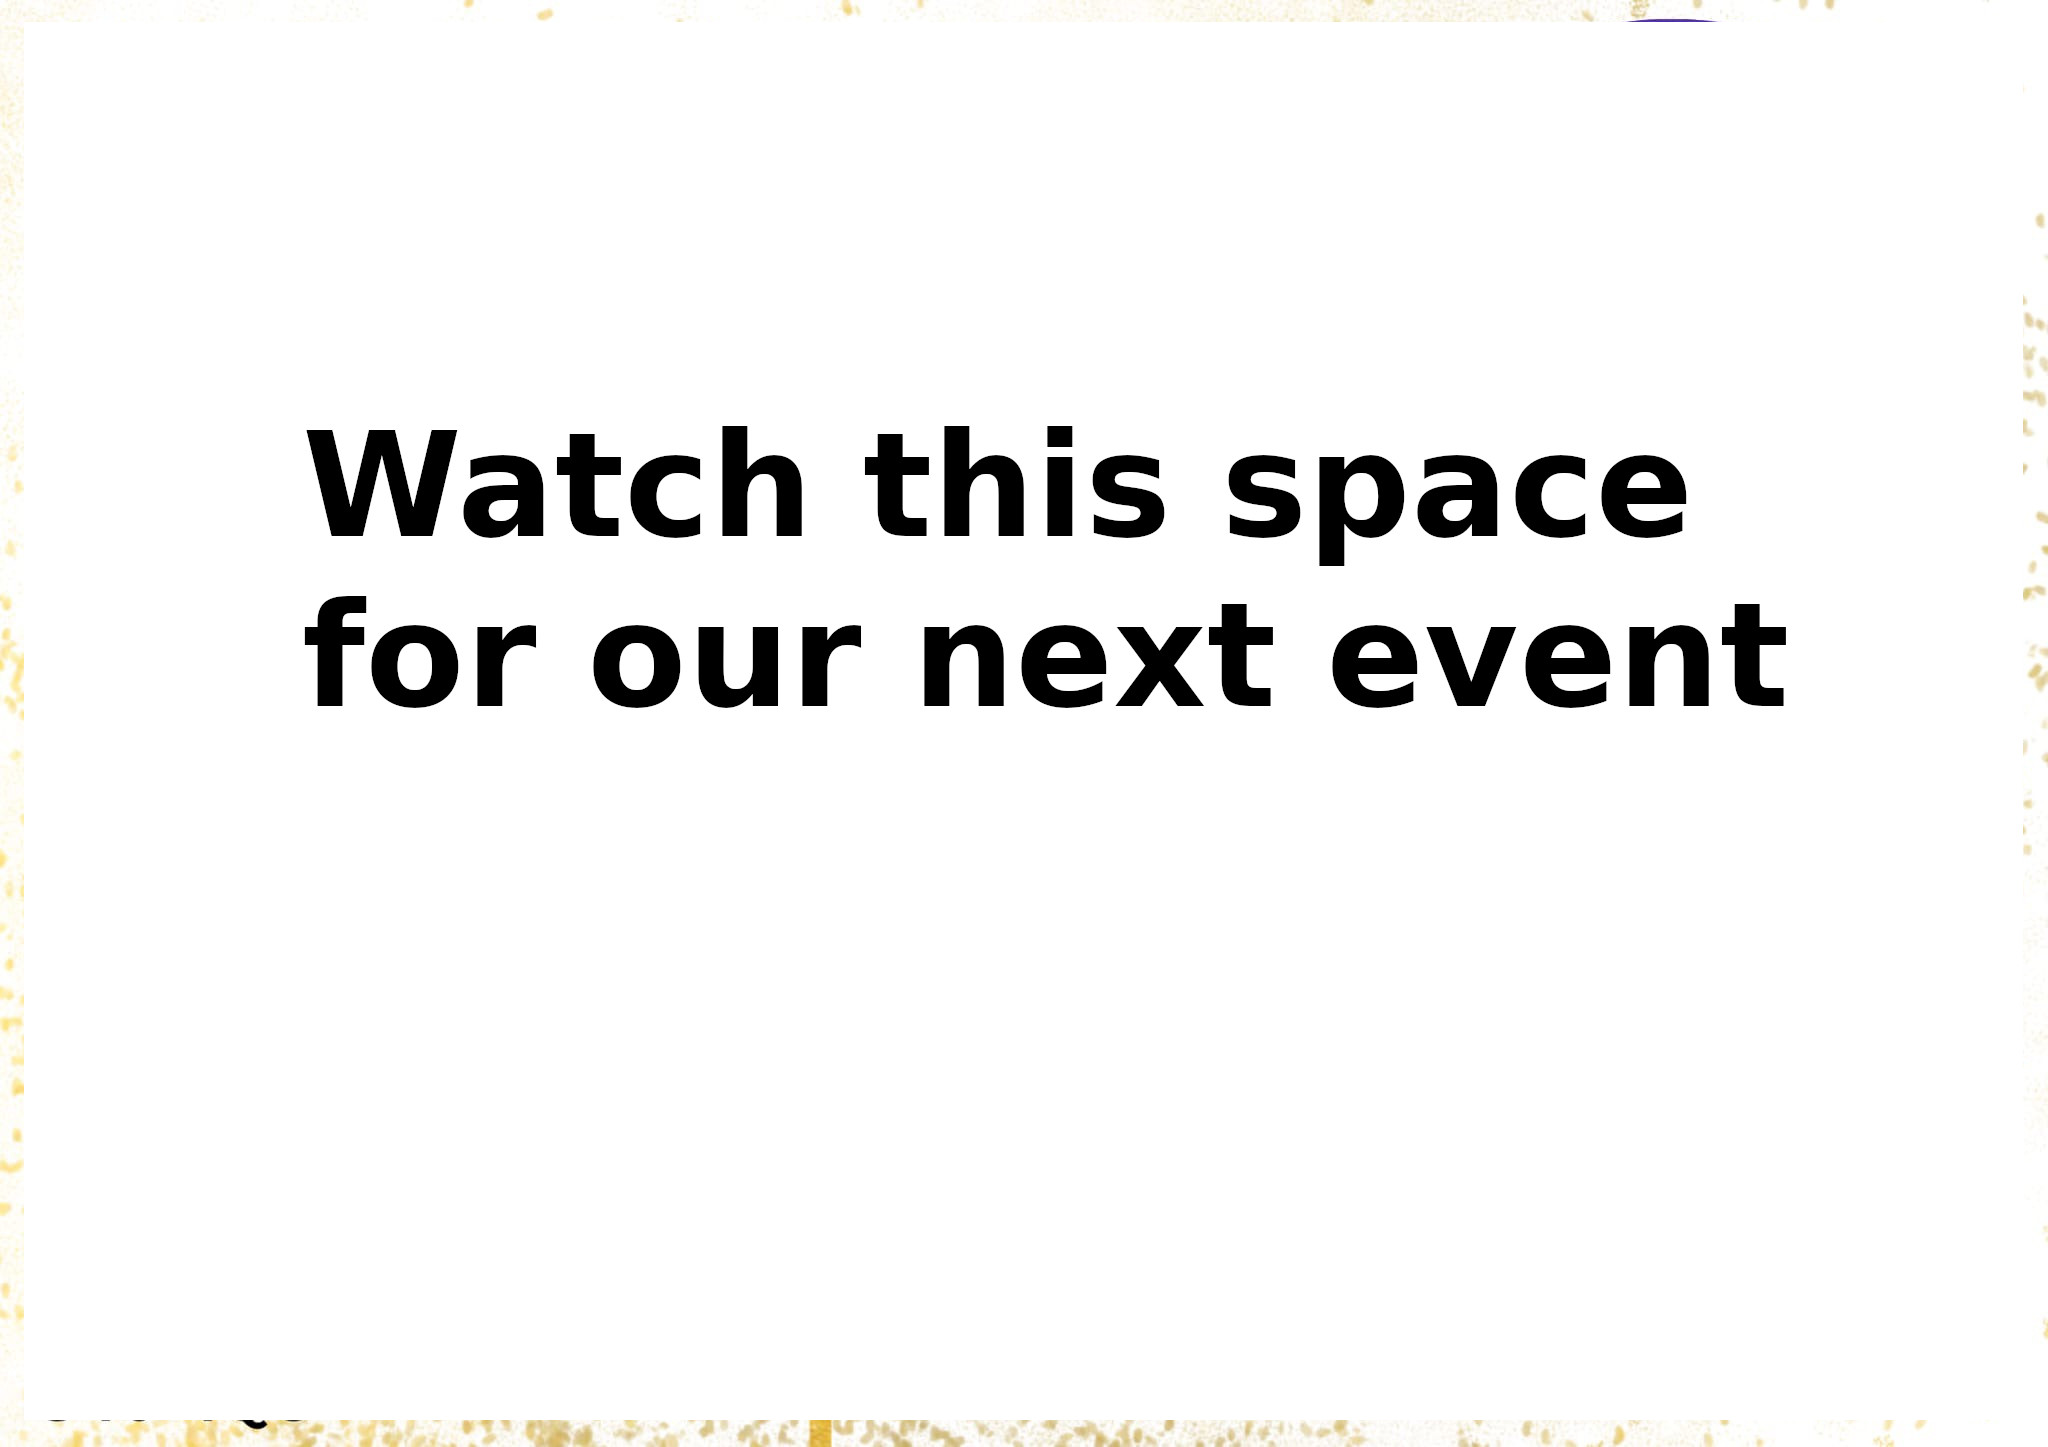
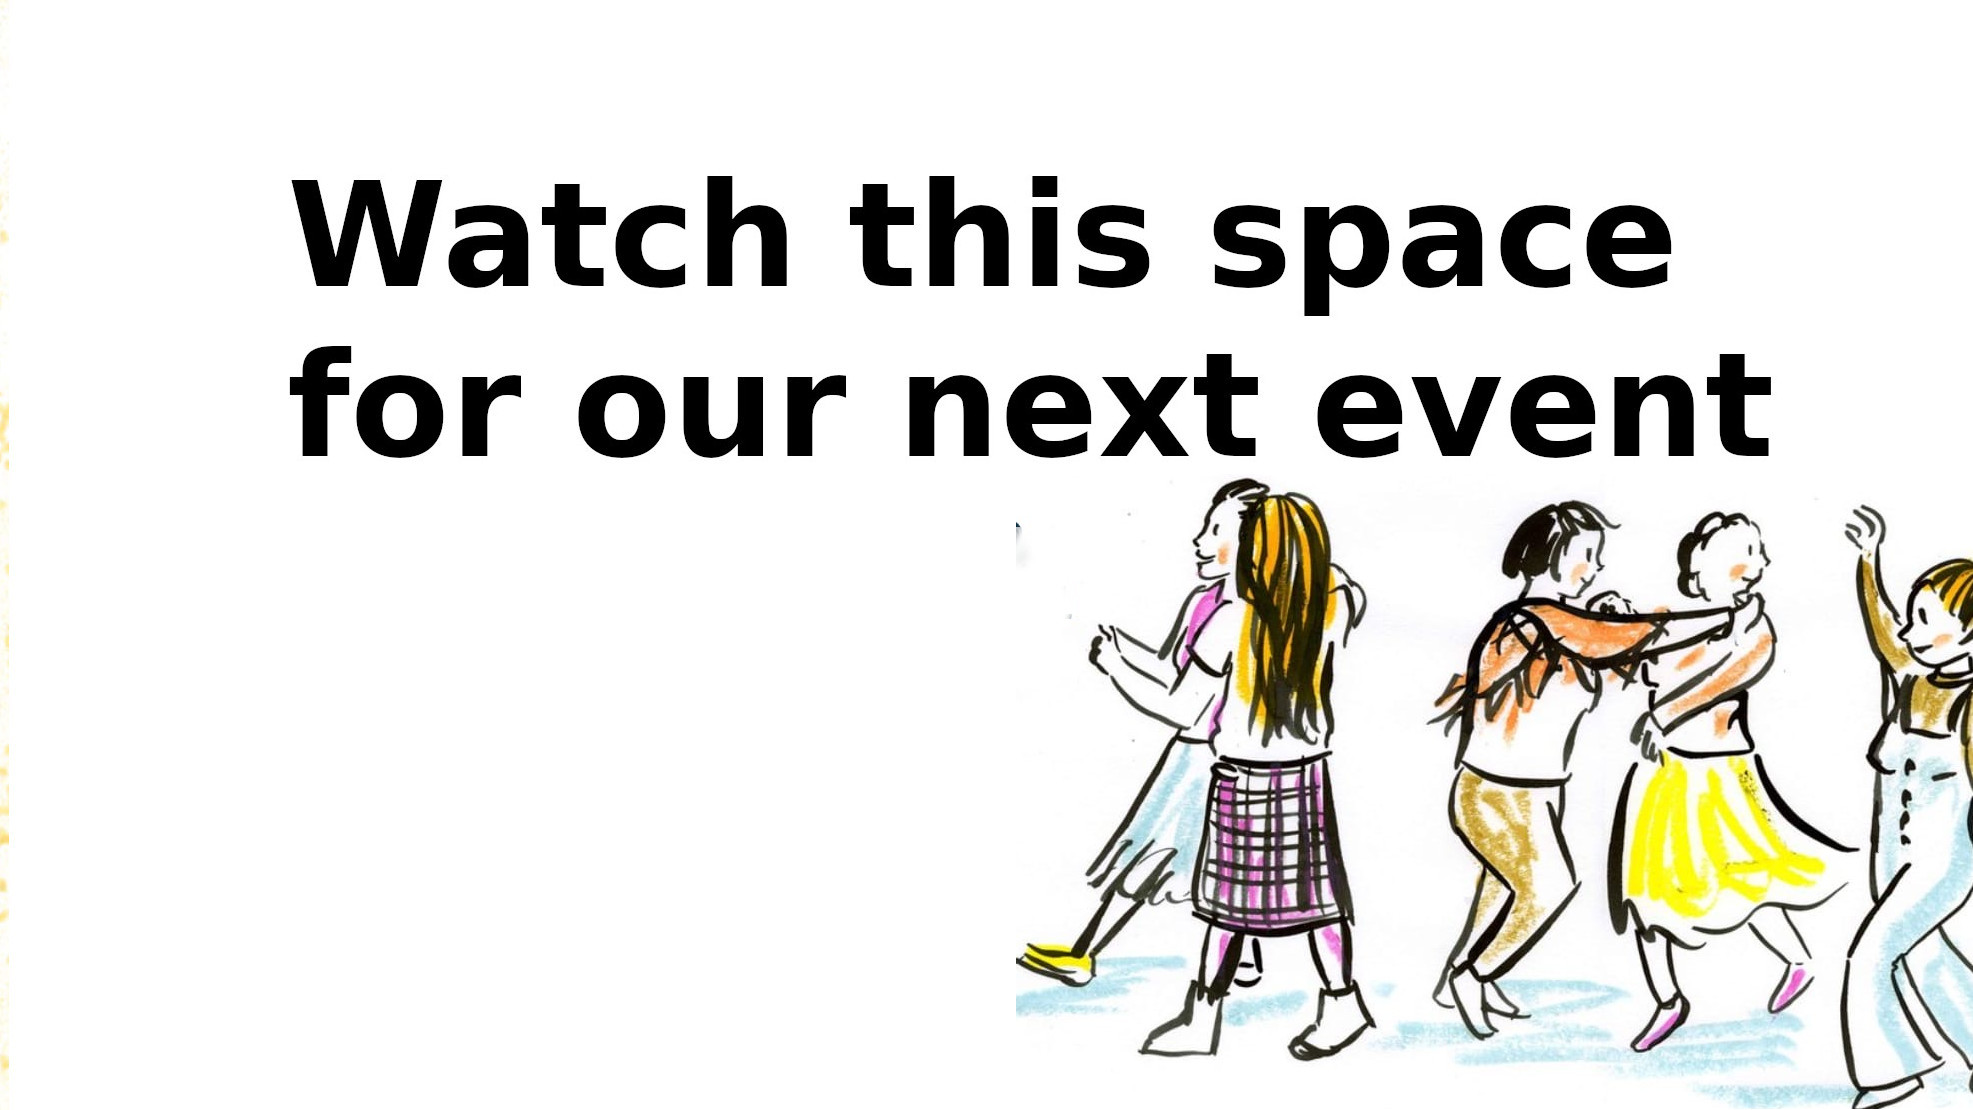
Tidy Splash Screen

diff --git a/BCBSite/templates/BCB/index.html b/BCBSite/templates/BCB/index.html
@@ -3,22 +3,30 @@
 
 {% block content %}
 
-<div id="splash"> 
+
   
-    {% for i in flyer %}
+<div id="splash" > 
 
-    {% if i.expire.timestamp > time %}
+            {% for i in flyer %}
 
-    <img src="{% get_media_prefix %}{{ i.image_file }}" alt="Next Event">
-    {% else %}
-    <img src="{{ 'uploads/images/Default.jpg' }}" alt="Expired Flyer">
-    {% endif %}
-    
+            {% if i.expire.timestamp > time %}
+                <div class="card" style="width: 50rem;">
+                    <img class="card-img-top object-fit-cover" src="{% get_media_prefix %}{{ i.image_file }}" alt="Next Event">
+                        <div class="card-body">
+                            <p class="card-title text-center fs-3">More Information? Go to Events Tab</p>
+                        </div>
+                </div>
+            {% else %}
+                    <img class="card-img-top"src="{{ 'uploads/images/Default.jpg' }}" alt="Expired Flyer">
+             
+            {% endif %}
+            
 
-    {% endfor %}
-    Go to events page for more details.
+            {% endfor %}
 
 </div>
+
+
 
 
 <div id="content" class="container mt-2 content-hidden">

diff --git a/BCBSite/static/style.css b/BCBSite/static/style.css
@@ -27,19 +27,24 @@ body {
    background-color: blanchedalmond;
  }
 
- .card-img-top{
-   width: 100%;
-   height: 100%;
-   object-fit: cover;
- }
+
 
  .card-title{
-   font-size: 1rem;
-   font-weight: 900;
+   font-size: 20pt;
+   font-weight: bold;
+   background-color: rgb(60, 136, 85);
+   color: white;
+
  }
 
  .card-text{
    font-size: 0.75rem;
+ }
+
+ .card-text-front{
+   font-size: 18pt;
+   color: black;
+   z-index: 9999;
  }
 
 .dropdown-item{
@@ -51,16 +56,6 @@ body {
   right: 0;
   text-align: right;
 }
-
-
-.card-img-top {
-    width: 100%;
-    height: 15vw;
-    object-fit: cover;
-}
-
-
-
 
 #splash {
     position: fixed;
